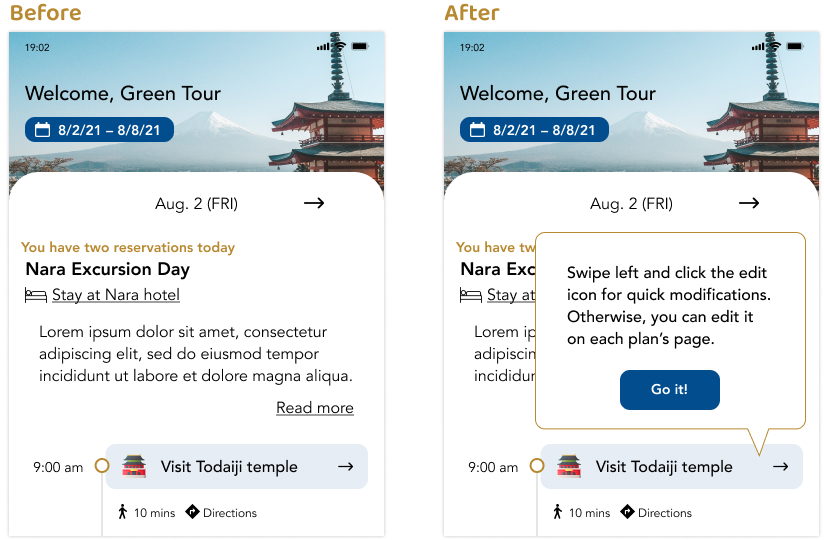
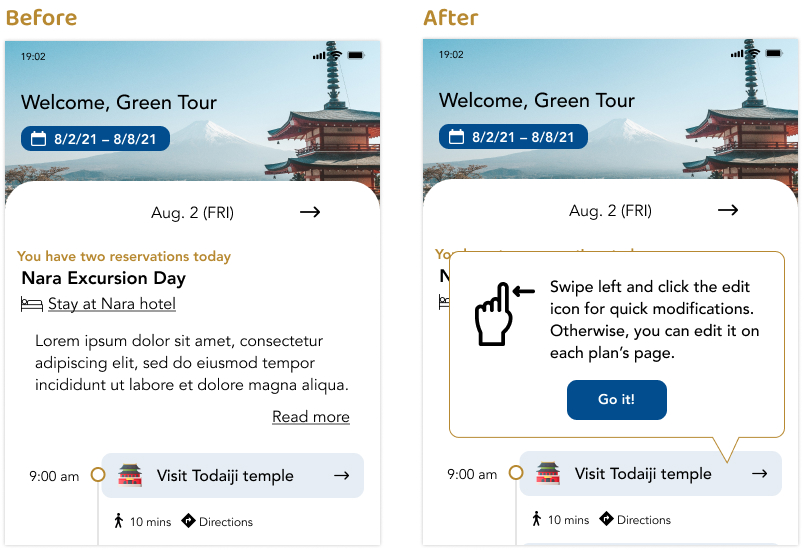
Updated images and content
windows-to-japan
– Changed some images
– Added an image
– Corrected grammar mistakes and made the content better

diff --git a/windows-to-japan.html b/windows-to-japan.html
@@ -1,4 +1,4 @@
- <!DOCTYPE html>
+<!DOCTYPE html>
 <html lang="en">
 
 <head>
@@ -65,7 +65,7 @@
         <div class="mirror-body">
             Windows to Japan is a travel company that provides customized tours to inbound travellers to Japan (I used
             to work there!).
-            Their primary focus is planning tours and booking hotels and activities for their clients, and giving
+            Their primary focus is planning tours, booking hotels and activities for their clients, and giving
             them physical travel files once they arrive in Japan. Windows to Japan also supports clients
             during their stay in the case of emergencies or just for general questions.
 
@@ -96,7 +96,7 @@
                 <li>Itineraries are usually overloaded with important information. How might we simplify the
                     contents when there is a lot of information? </li>
                 <li>Physical documents and digital apps bring users different experiences. How might we digitally
-                    optimize text-heavy physical documents??</li>
+                    optimize text-heavy physical documents?</li>
 
 
             </div>
@@ -117,9 +117,10 @@
     <div class="content mirror-body">
         <p>Competitive analysis</p>
         I was curious how other travel agencies transitioned from providing physical documents to their clients to
-        providing a full mobile experience. I decided to pick three itinerary to analyse apps because I couldn’t find
-        any competitors doing this. Some of them have similar features to what I envisioned, such as a chat bot and
-        access to travel agents within the app.
+        providing a full mobile experience. However, I couldn’t find any competitors doing this. Instead, I decided to
+        pick three itinerary apps and analyze how they organize travel information in their apps. Some of them have
+        similar features to what I envisioned, such as a chat bot and access to travel agents within the app. This gave
+        me some ideas of how to design an app with an integrated chat bot.
 
         <div>
 
@@ -134,10 +135,11 @@
         </div>
 
         <p>Survey</p>
-        I conducted a survey to find out the frustrations and needs there are for travel apps. I was also wondering if
-        there's anyone who has used a travel agency which provides itineraries via an app. For the survey recruiting, I
-        targeted people who have used travel apps to plan their trips rather than those who have used a travel agency. I
-        wanted to gather feedback about travel apps to prioritize features.
+        I conducted a survey to learn about the frustrations and needs that people have when using travel apps. I
+        focused the survey on travel apps rather than travel agencies in order to get a sense of what patterns and
+        formats people find useful in a digital platform. Gathering this feedback helped me to prioritize features for
+        the Windows to Japan app. In addition, I included a question asking participants if they have used a travel
+        agency with an app, since I could not find any myself. Unsurprisingly, none of them had.
 
 
         <div>
@@ -151,14 +153,12 @@
             </a>
 
             <p>1:1 User Interviews</p>
-            After the survey, I proceeded with user interviews to collect feedback of people who have used a travel
-            agency to plan their trips.
-            For this process, I wanted to discover the frustrations and needs of using physical or PDF itineraries.
-            From the interviews, I learned that all of the participants prefer having detailed itineraries, but they
-            also want
-            to easily skip uninteresting parts. This was interesting because I received the same feedback from the
-            survey—
-            all the participants want a detailed itinerary but in a simple format.
+            After the survey, I proceeded with user interviews to collect feedback on using travel agencies.
+            Specifically, I wanted to discover the frustrations and needs people have when 1) using PDF or printed
+            itineraries and 2) when connecting with an agent when a problem arises. From these interviews, I learned
+            that all of the participants prefer having detailed itineraries, but they also want to easily skip
+            uninteresting parts. This matched the feedback I received from the survey: all the survey participants want
+            a detailed itinerary but in a simple format.
 
             <br><br>
 
@@ -195,12 +195,11 @@
 
 
         <p>Persona</p>
-        Through my research, I collected and synthesized data. To organize user feedback, I created this persona to
-        filter down to just the important feedback. I tried to make this as
-        descriptive as possible so that I can easily empathize with her and design the app based on her needs and
-        frustrations. From the research, I identified that the top need is to have a detailed itinerary in a simple
-        format, such as bullet points.
-        Therefore, this is the main thing I focused on.
+
+        In order to keep in mind who I'm designing this app for, I summarized the important feedback into a single
+        persona, representing a core user.
+        I was able to quickly refer back to this persona during the whole design process, which helped me make
+        user-centered decisions.
 
         <div>
 
@@ -216,13 +215,9 @@
 
 
         <p>User Flow</p>
-        I decided to make a user flow because this app will be a little complicated to navigate. To make the app
-        less
-        complicated, I needed to better understand users in how they would take actions and how they
-        process their thoughts.
-        The flow ended up becoming complex, but I was able to modify the flow during the iteration process and
-        understand
-        what might be frustrating.
+        I decided to make a user flow in order to visualize how and when a user would take actions and navigate through
+        the app. I was able to understand which part of the app would be complicated and need extra attention. With this
+        flow clearly layed out, it makes it much easier to design a seamless user experience.
 
         <div>
 
@@ -250,19 +245,25 @@
     <div class="content mirror-body">
 
         <p>Sketches</p>
+        Before designing any wireframes, I decided to sketch the layout of the app to solidify my rough ideas. I
+        sketched just one version first to combine the ideas of the app layout I got from my competitive analysis and
+        inspirations. Then I sketched a second version with an improved layout, including a simpler itinerary page that
+        is easier to parse.
+        <div>
 
-        Before designing any wireframes, I decided to sketch the layout of the app. I was struggling at first
-        because I
-        had no idea what the app should look like. I sketched
-        just
-        one version first to combine the ideas I got from my inspirations. Then I sketched a second version since I
-        had
-        a better idea of how it would look.
+            <a href=#img-sketches-before class="lightbox-link">
+                <img class="mirror-content2" src="wtj-img/Sketches-before.jpg" alt="Sketches, version1">
+            </a>
 
+            <a href="#!" class="lightbox" id="img-sketches-before">
+                <span style="background-image: url('wtj-img/Sketches-before.jpg')"></span>
+            </a>
+
+        </div>
         <div>
 
             <a href=#img-sketches class="lightbox-link">
-                <img class="mirror-content2" src="wtj-img/Sketches.jpg" alt="Sketches">
+                <img class="mirror-content2" src="wtj-img/Sketches.jpg" alt="Sketches, version2">
             </a>
 
             <a href="#!" class="lightbox" id="img-sketches">
@@ -273,17 +274,14 @@
 
 
 
-        <p>Mid-Fidelity Wireframes</p>
-        To make the sketches come alive, I started to work on mid-fidelity wireframes based on the sketches, but it
-        wasn’t
-        as
-        intuitive as I thought it would be. After finishing the wireframes, I realized that it was somewhat
-        confusing to
-        navigate myself, so I decided to iterate. I was able to design it to be more intuitive and have fewer
-        screens.
-        However, I wasn’t sure if the swiping effect for events was clear. I thought of iterating on it to make it
-        clearer, but instead I decided to just include it in the usability test for the entire flow.
 
+        <p>Mid-Fidelity Wireframes</p>
+        Next I created mid-fidelity wireframes to focus on the app's usability before making the final designs. While
+        creating these wireframes, I focused on the flow of the app, looking for anything I could iterate on. After
+        finishing the wireframes, I realized that it was somewhat confusing to navigate myself, due to visual clutter. I
+        iterated on the design to make it more intuitive by removing unnecessary features. One thing I was unsure about
+        was whether the swiping effect for events was clear. Instead of iterating on it immediately, I opted to conduct
+        usability testing on it, along with the entire flow.
 
 
         <div>
@@ -327,21 +325,18 @@
         <a class="link"
             href="https://www.figma.com/proto/KbbHPLf2m5jmZazjOuph9m/WTJ-wireframes?page-id=0%3A1&node-id=129%3A6223&viewport=241%2C48%2C0.1&scaling=scale-down&starting-point-node-id=129%3A6223"
             target="_blank">View Prototype</a><br>
-        Since I wasn't sure the swiping effect was clear enough, I decided to conduct usability testing to receive
-        feedback from the users before making hi-fidelity designs.
-        I used two formats:
+        As mentioned above, I decided to conduct usability testing to receive feedback on the swiping effect before
+        making hi-fidelity designs. I used two formats:
         <ul>
             <li>Zoom (2 participants)</li>
             <li>Maze (7 participants)</li>
         </ul><br>
 
         <p>Affinity Map</p>
-        I created this affinity map to summarize user feedback and what can be improved in the next step.
-        Through the usability testing I verified that the majority of people found the swiping effect unintuitive. Also,
-        several participants mentioned that the edit icon was hard to find. I was glad to test the
-        wireframes at this point since I would have not known the edit icon was hard to find. Now, I knew which parts of
-        the
-        design to iterate on.
+        I created the affinity map below to summarize user feedback and see what can be improved. Through the usability
+        testing I verified that the majority of people found the swiping effect unintuitive. In addition to that,
+        several participants mentioned that the edit icon was hard to find. I was glad to test the wireframes at this
+        point since I would have not known the edit icon was hard to find.
 
         <div>
             <a href=#img-affinity-map class="lightbox-link">
@@ -359,14 +354,11 @@
 
 
         <p>Hi-Fidelity Responsive Design</p>
-        I worked on hi-fidelity designs based on the wireframes and feedback I received from the usability testing
-        in
+        I worked on hi-fidelity designs based on the wireframes and feedback I received from the usability testing in
         the previous process. Since travel itineraries on physical paper are usually overloaded with information, I
         aimed to make the design not text-heavy but still include all the important details. I focused on making the
-        interface (edit icons, CTA buttons) clean and understandable. While iterating on the hi-fidelity
-        wireframes, I
-        realized the font sizes were very small (12px), so I made them larger (16px). I thought it was large enough
-        since it appeared large on my screen.
+        interface (edit icons, CTA buttons) clean and understandable. While iterating on the hi-fidelity wireframes, I
+        realized the font sizes were very small (12-14px), so I made them larger (16px).
 
         <br><br>
 
@@ -419,42 +411,36 @@
         </ul>
 
         <p>Affinity Map</p>
-        Since I recruited more participants this time, usability testing revealed more feedback that helped me to
-        see my design objectively.
-        I wanted to make an affinity map again to summarize the user feedback and organize them. This helped me to
-        realize what I need to work on to make the design better.
+        Since I recruited more participants this time, usability testing revealed more feedback that helped me to see my
+        design objectively. I wanted to make an affinity map again to summarize the user feedback and organize them.
+        This helped me to realize what I need to work on to make the design better.
 
         <div>
             <a href=#img-hifi-affinity-map class="lightbox-link">
-                <img class="mirror-content2" src="wtj-img/WTJ-Affinity-Map-WTJ-Usability-test.jpg" alt="Affinity map">
+                <img class="mirror-content2" src="wtj-img/WTJ-Affinity-Map---WTJ-Usability-test.jpg" alt="Affinity map">
             </a>
 
             <a href="#!" class="lightbox" id="img-hifi-affinity-map">
-                <span style="background-image: url('wtj-img/WTJ-Affinity-Map-WTJ-Usability-test.jpg')"></span>
+                <span style="background-image: url('wtj-img/WTJ-Affinity-Map---WTJ-Usability-test.jpg')"></span>
             </a>
         </div>
 
         <p>Priority Revision</p>
-        After testing the app design, I was able to understand what was making users confused about the design. I
-        wanted
-        to make revisions since both the edit button and swiping effect weren't clear enough.
-
-        Besides the frustrations, I received a lot of good feedback about the app providing a detailed yet simple
-        and easy interface, which I what I was trying to achieve.
+        After testing the app design, I was able to understand what was making users confused about the design. I wanted
+        to make revisions since both the edit button and swiping effect weren't clear enough. Apart from the
+        frustrations, I received a lot of good feedback about the app providing a detailed yet simple interface, which
+        is what I was trying to achieve.
 
         <br>
 
         <div>
             <div class="mirror-content">
-                I tested this in the mid-fidelity wireframes, and I learned that it wasn't intuitive to swipe an event
-                without any explanations.
-                For that reason, I decided to include on-boarding screens in the hi-fidelity designs to make people
-                aware of the feature. In hi-fidelity
-                usability testing, I learned people still didn't realize they could swipe it even though some
-                participants
-                read the whole on-boarding screens (in the Zoom usability test).
-                I didn't want the feature to be undiscoverable, so I decided to include a pop-up screen on the itinerary
-                page so that it gets users' attention.
+                Through usability testing of the mid-fidelity wireframes, I learned that it wasn't intuitive to swipe an
+                event without any explanations. For this reason, I decided to include on-boarding screens in the
+                hi-fidelity designs to make people aware of the feature. In the hi-fidelity usability testing, I learned
+                people still didn't realize they could swipe even though some participants read the whole on-boarding
+                screens (in the Zoom usability test). I didn't want the feature to be undiscoverable, so I decided to
+                include a pop-up screen on the itinerary page to get users' attention.
             </div>
             <div>
                 <a href=#img-revision-popup class="lightbox-link">
@@ -469,11 +455,10 @@
 
         <div>
             <div class="mirror-content">
-                In the mid-fidelity usability test, I was aware of the edit icon being hard to find. I tried making it
-                more obvious in the hi-fidelity designs, but I discovered that the participants still have a hard time
-                finding it. I received some
-                feedback saying it's better to have text saying "edit" or "modify", so I decided to have both the edit
-                icon and text. I also moved it to the white part and made it bigger so that it's more prominent.
+                From the mid-fidelity usability test I knew that the edit icon was hard to find. I tried making it more
+                obvious in the hi-fidelity designs, the participants still had a hard time finding it. I received some
+                feedback saying it's better to have text saying "edit" or "modify", so I decided to have both the icon
+                and text. Additionally, I moved it onto the card and enlarged it to be more prominent.
             </div>
             <div>
                 <a href=#img-revision-edit class="lightbox-link">
@@ -487,10 +472,9 @@
         </div>
         <div>
             <div class="mirror-content">
-                One of the participants pointed out that "Choose an alternative option in the area" wasn't clear so he
-                couldn't find the alternative place.
-                After he said that, I realized that I didn't change the text size from 14px to 16px, so I changed it and
-                also made it bolder for better readability.
+                One of the participants struggled when asked to modify a plan, despite there being clear directions. I
+                realized that the text was not noticeable, so I changed the text size from 14px to 16px and bolded it
+                for better readability.
             </div>
             <div>
                 <a href=#img-revision-text class="lightbox-link">
